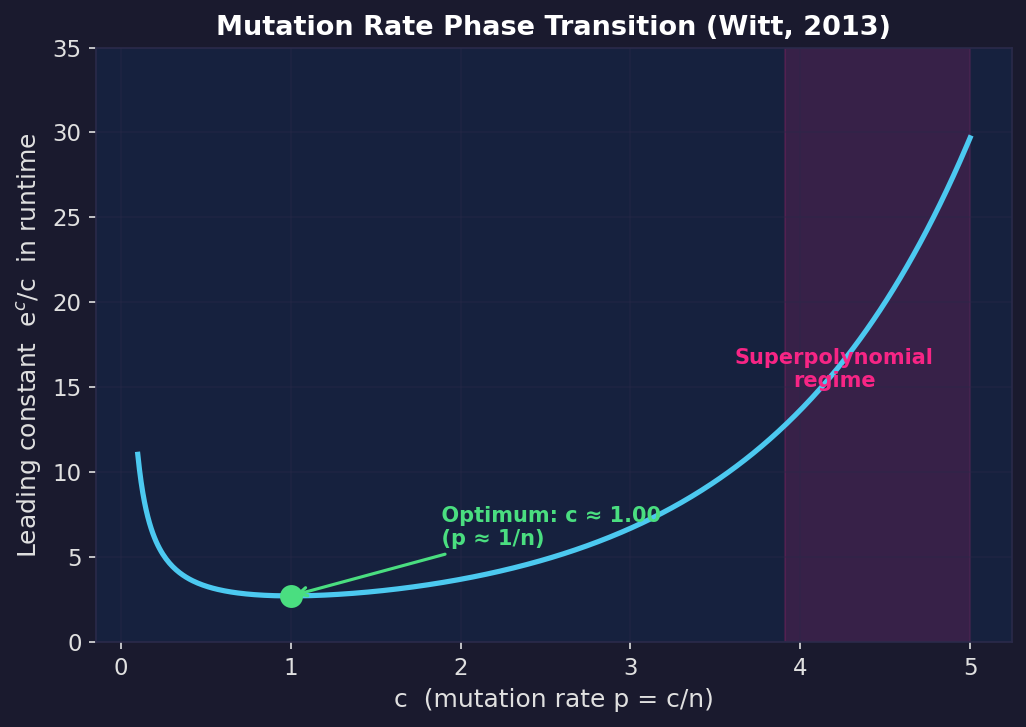
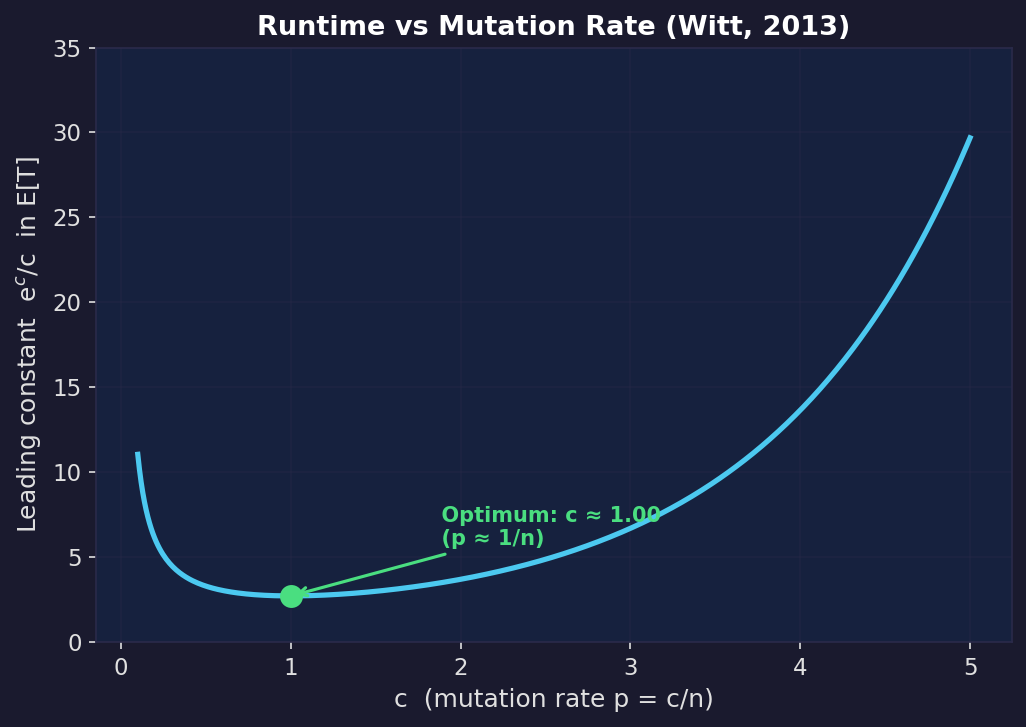
remove shaded region from section 3 plot

Changed region(s): [[0.1871, 0.0, 0.9669, 0.9078], [0.0, 0.1816, 0.0312, 0.7565]]

diff --git a/evolution-diversity/animations/deeper_figures.py b/evolution-diversity/animations/deeper_figures.py
@@ -300,15 +300,14 @@ def make_mutation_phase_transition(save_path):
                 color=ACCENT_GREEN, fontsize=10, fontweight="bold",
                 arrowprops=dict(arrowstyle="->", color=ACCENT_GREEN, lw=1.5))
 
-    # Mark phase transition region
-    c_thresh = np.log(50)  # ln(n) for n=50 as illustration
-    ax.axvspan(c_thresh, 5.0, alpha=0.15, color=ACCENT_RED)
-    ax.text(4.2, 15, "Superpolynomial\nregime", color=ACCENT_RED,
-            fontsize=10, fontweight="bold", ha="center")
+    # Note: the formula E[T] ~ (e^c/c) n ln n holds for constant c,
+    # i.e. p = c/n. Beyond p = (ln n)/n the runtime becomes
+    # superpolynomial, but that threshold depends on n so we don't
+    # shade a fixed region on this plot.
 
     ax.set_xlabel("c  (mutation rate p = c/n)", fontsize=12)
-    ax.set_ylabel("Leading constant  e$^c$/c  in runtime", fontsize=12)
-    ax.set_title("Mutation Rate Phase Transition (Witt, 2013)", fontsize=13,
+    ax.set_ylabel("Leading constant  e$^c$/c  in E[T]", fontsize=12)
+    ax.set_title("Runtime vs Mutation Rate (Witt, 2013)", fontsize=13,
                  fontweight="bold", color="white")
     ax.set_ylim(0, 35)
     ax.grid(True)
